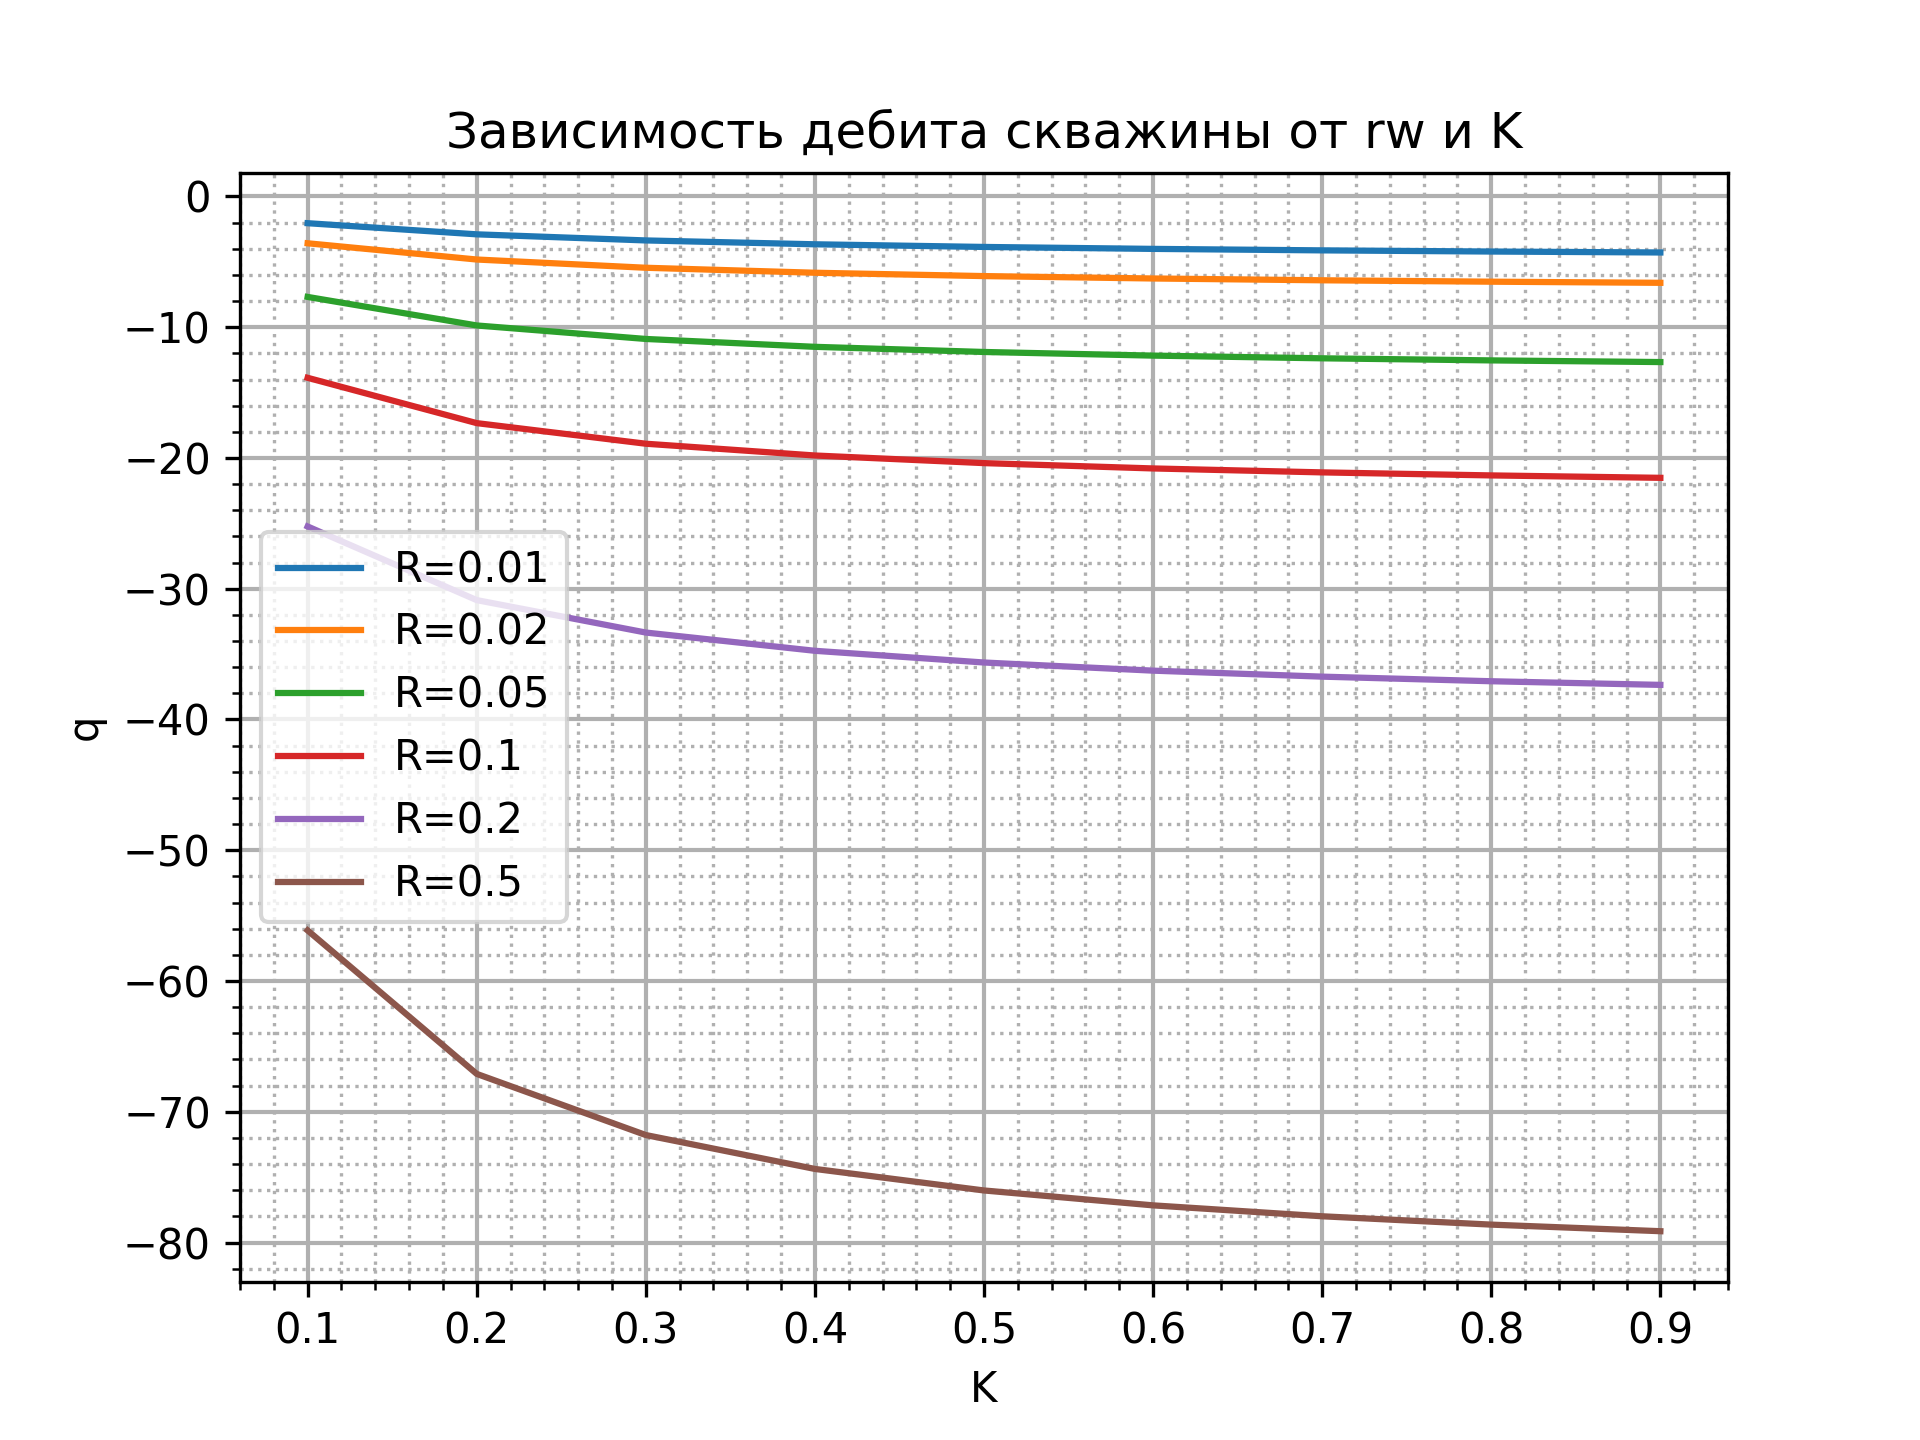
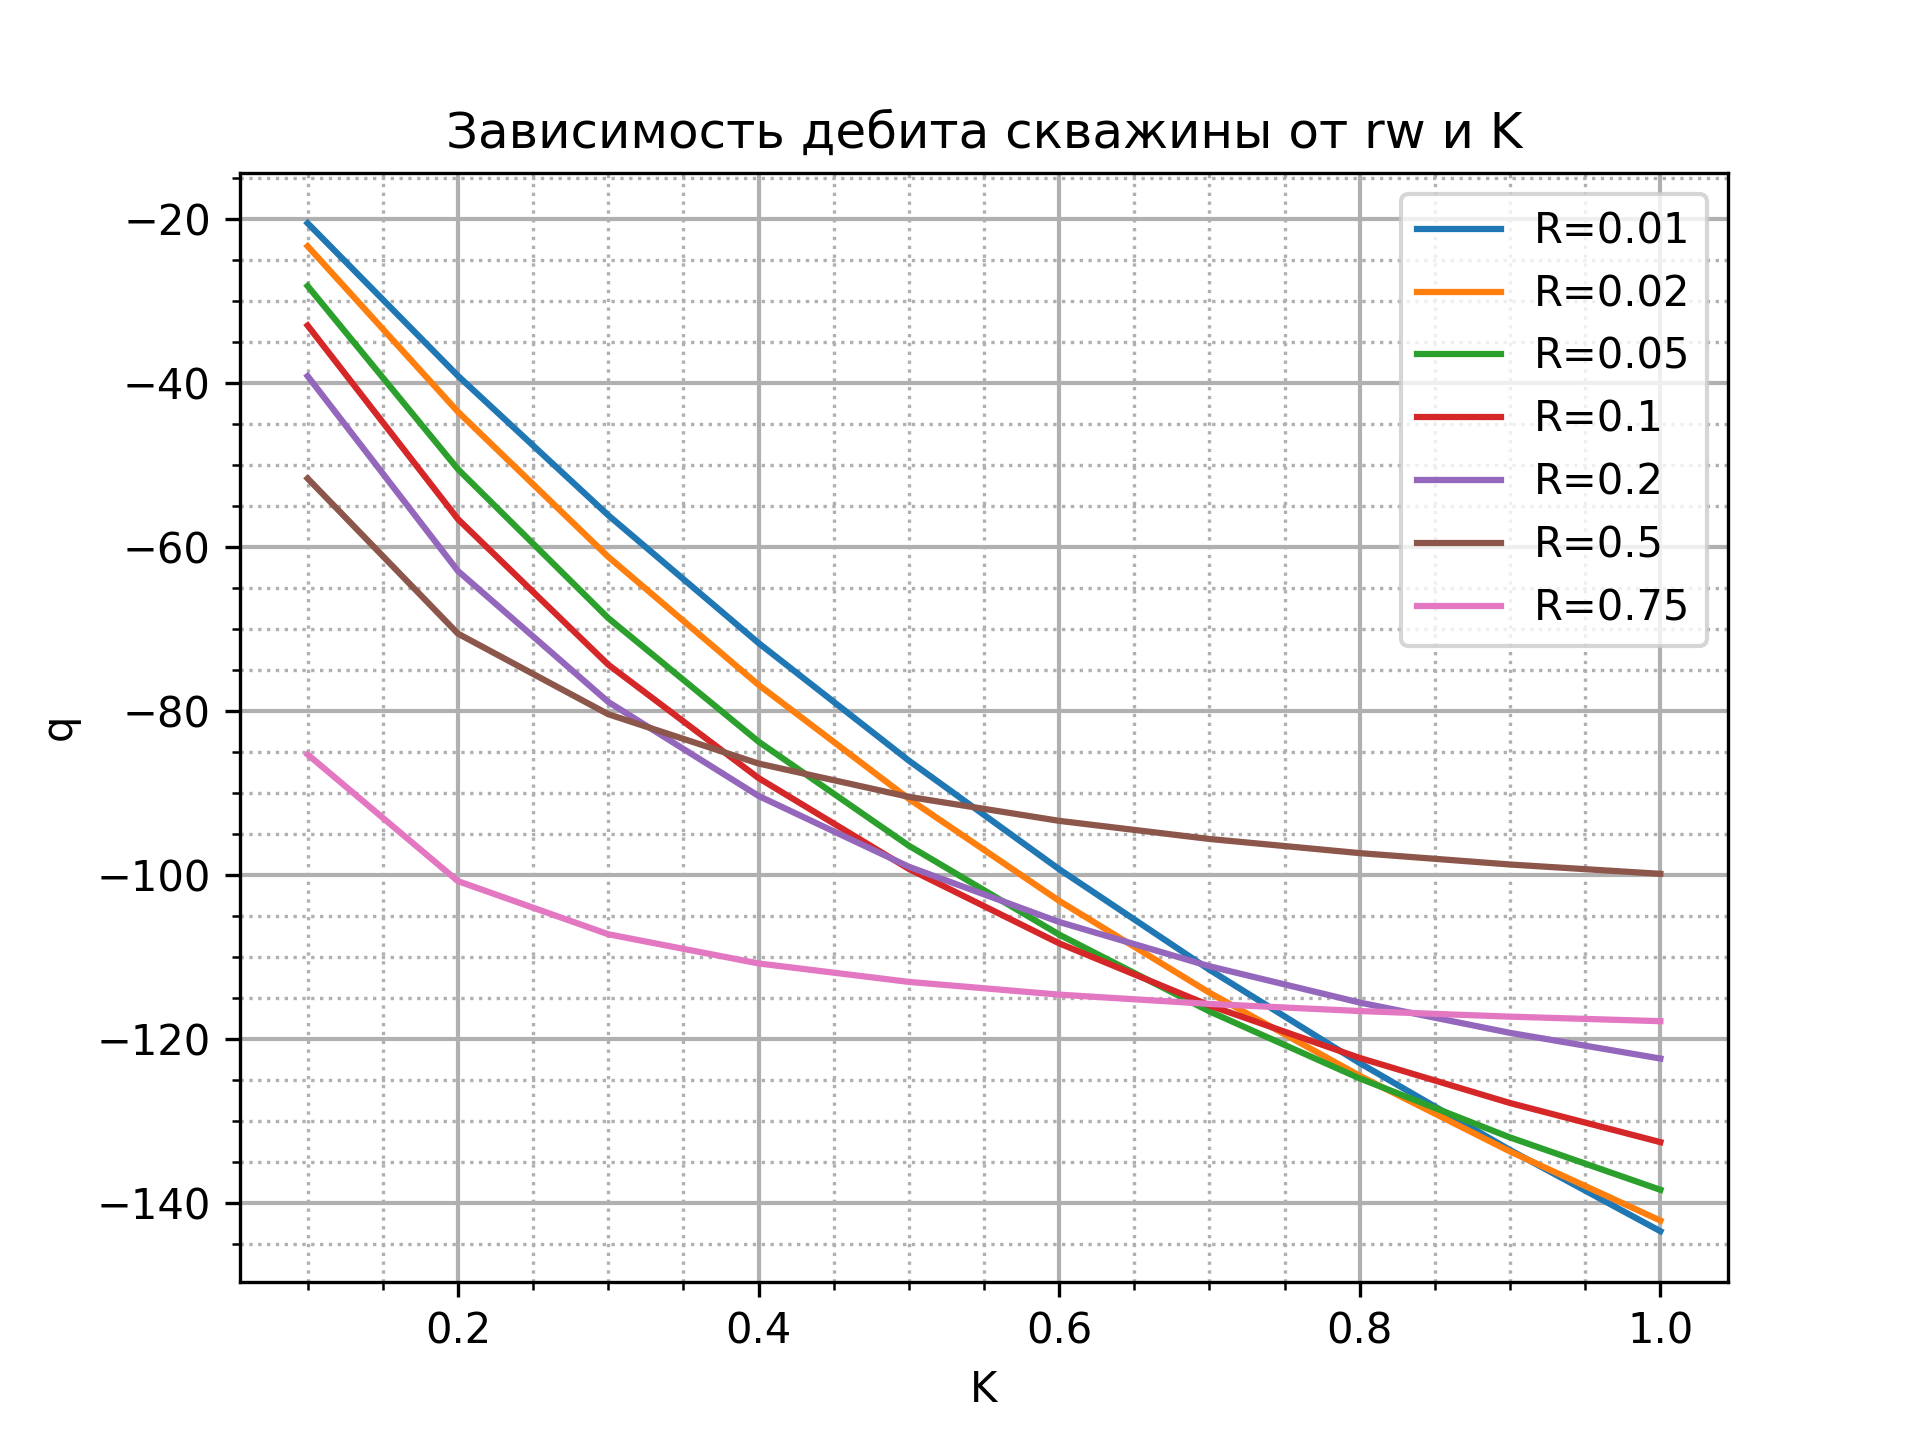
правки в 2.1 и 2.2 (Правильное время + правильный пункт 5 из 2.2) (#7)

diff --git a/Задание 2.2/main.py b/Задание 2.2/main.py
@@ -220,15 +220,18 @@ R, rw, k0, m, dp, mu = 100, 0.1, 1e-12, 0.2, 1e6, 1e-3
 
 if task_number == 1:
     # T = mu * m * math.log(R / rw) * (R ** 2 - rw ** 2) / 2 / k0 / (p[xs - 1] - p[0]) / dp
-    T = sum([h[i] * h[i] * R * mu * m * (R - rw) / k0 / dp / (p[i + 1] - p[i]) for i in range(xs - 1)])
+    # T = sum([h[i] * h[i] * R * mu * m * (R - rw) / k0 / dp / (p[i + 1] - p[i]) for i in range(xs - 1)])
+    T = sum([mu * (R - rw) * m / u[i] / k0 / dp * h[i] * (R - rw) for i in range(xs-1)])
 elif task_number == 2:
     # T = mu * m * math.log(0.5 * R / rw) * ((0.5 * R) ** 2 - rw ** 2) / 2 / k0 / (p[N[0]] - p[0]) / dp
     # T += mu * m * math.log(R / (0.5 * R)) * (R ** 2 - (0.5 * R) ** 2) / 2 / k0 / (p[xs - 1] - p[N[0]]) / dp
-    T = sum([h[i] * h[i] * R * mu * m * (R - rw) / k0 / dp / (p[i + 1] - p[i]) for i in range(xs - 1)])
+    # T = sum([h[i] * h[i] * R * mu * m * (R - rw) / k0 / dp / (p[i + 1] - p[i]) for i in range(xs - 1)])
+    T = sum([mu * (R - rw) * m / u[i] / k0 / dp * h[i] * (R - rw) for i in range(xs-1)])
 elif task_number == 3:
     # T = mu * m * math.log(0.75 * R / rw) * ((0.75 * R) ** 2 - rw ** 2) / 2 / k0 / (p[N[0]] - p[0]) / dp
     # T += mu * m * math.log(R / (0.75 * R)) * (R ** 2 - (0.75 * R) ** 2) / 2 / k0 / (p[xs - 1] - p[N[0]]) / dp
-    T = sum([h[i] * h[i] * R * mu * m * (R - rw) / k0 / dp / (p[i + 1] - p[i]) for i in range(xs - 1)])
+    # T = sum([h[i] * h[i] * R * mu * m * (R - rw) / k0 / dp / (p[i + 1] - p[i]) for i in range(xs - 1)])
+    T = sum([mu * (R - rw) * m / u[i] / k0 / dp * h[i] * (R - rw) for i in range(xs-1)])
 
 if task_number in [1, 2, 3]:
     with open(f'results (задание {task_number}).txt', 'w', encoding='utf-8') as file:

diff --git a/Задание 2.2/u(rw,K).py b/Задание 2.2/u(rw,K).py
@@ -37,17 +37,17 @@ def define_type_x(xx):
 
 
 plt.figure(1)
-for R in [0.01, 0.02, 0.05, 0.1, 0.2, 0.5]:
+for R in [0.01, 0.02, 0.05, 0.1, 0.2, 0.5, 0.75]:
     print(R)
     u0_arr = list()
-    for K in [0.1, 0.2, 0.3, 0.4, 0.5, 0.6, 0.7, 0.8, 0.9]:
+    for K in [0.1, 0.2, 0.3, 0.4, 0.5, 0.6, 0.7, 0.8, 0.9, 1.0]:
         print(K, end=' ')
-        N_min = 10000
+        N_min = 1000
         # Кол-во зон и их границы
         with open('zone_info(u(rw,K))).txt', 'r') as file:
             zone_coordinates = np.array(list(map(float, file.readline().split())))
             zone_f = np.array(list(map(float, file.readline().split())))
-        zone_coordinates[0] /= R
+        zone_coordinates[1] = R
         zone_f[1] = K
         NN = len(zone_coordinates) - 1
         zone_lengths = [zone_coordinates[i + 1] - zone_coordinates[i] for i in range(NN)]
@@ -123,8 +123,8 @@ for R in [0.01, 0.02, 0.05, 0.1, 0.2, 0.5]:
         u = p_u[xs:]
         u0_arr.append(u[0])
     print()
-    plt.plot([0.1, 0.2, 0.3, 0.4, 0.5, 0.6, 0.7, 0.8, 0.9], u0_arr)
-plt.legend(('R=0.01', 'R=0.02', 'R=0.05', 'R=0.1', 'R=0.2', 'R=0.5'))
+    plt.plot([0.1, 0.2, 0.3, 0.4, 0.5, 0.6, 0.7, 0.8, 0.9, 1.0], u0_arr)
+plt.legend(('R=0.01', 'R=0.02', 'R=0.05', 'R=0.1', 'R=0.2', 'R=0.5', 'R=0.75'))
 plt.title('Зависимость дебита скважины от rw и K')
 plt.minorticks_on()
 plt.grid()

diff --git a/Задание 2.1/Error_solve.py b/Задание 2.1/Error_solve.py
@@ -27,9 +27,9 @@ for i, n in enumerate(N):
     task.solve_matrix()
     task.solve_error()
     errors3[i] = task.E
-plt.plot(N, errors1, 'r')
-plt.plot(N, errors2, 'g')
-plt.plot(N, errors3, 'b')
+plt.semilogy(N, errors1, 'r')
+plt.semilogy(N, errors2, 'g')
+plt.semilogy(N, errors3, 'b')
 plt.title('Погрешность давления')
 plt.legend(('Р.С. без поправки)', 'Р.С. с поправкой', 'Л.С.'))
 plt.minorticks_on()
@@ -40,4 +40,5 @@ plt.minorticks_on()
 plt.grid(which='major', linewidth=1)
 plt.grid(which='minor', linestyle=':')
 plt.grid(which='minor', linestyle=':')
-plt.savefig('Погрешность от сетки', dpi=300)
+plt.show()
+# plt.savefig('Погрешность от сетки', dpi=300)

diff --git a/Задание 2.1/main.py b/Задание 2.1/main.py
@@ -11,8 +11,7 @@ task.save_p_plot()
 # task.save_u_plot()
 
 R, rw, k0, m, dp, mu = 100, 0.1, 1e-12, 0.2, 1e6, 1e-3
-T = mu * m * math.log(R / rw) * (R ** 2 - rw ** 2) / 2 / k0 / (task.p[task.N] - task.p[0]) / dp
+T = sum([mu * (R - rw) * m / task.u[i] / k0 / dp * task.spaces[i] * (R - rw) for i in range(task.N)])
 
 with open(f'results.txt', 'w', encoding='utf-8') as file:
     file.write(f'Время прохождения частицы между галереями: {T}')
-
